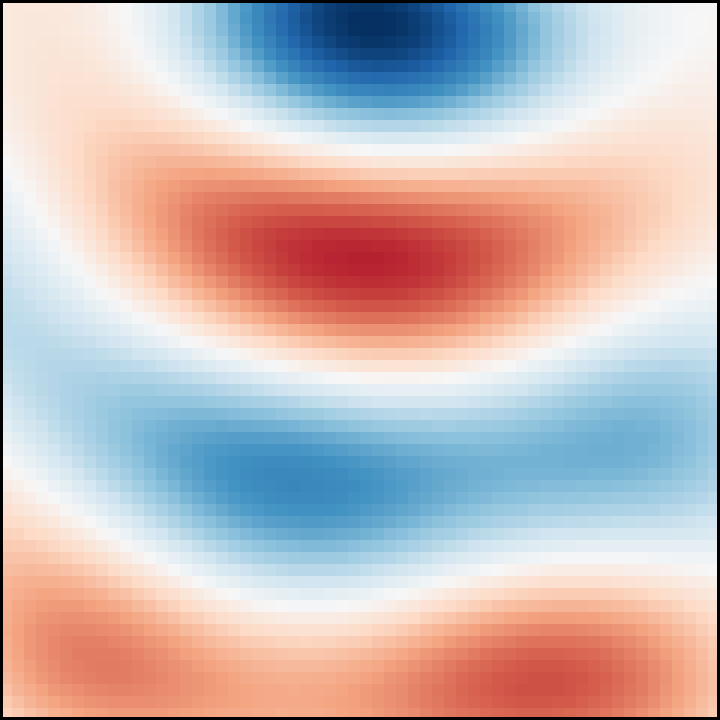
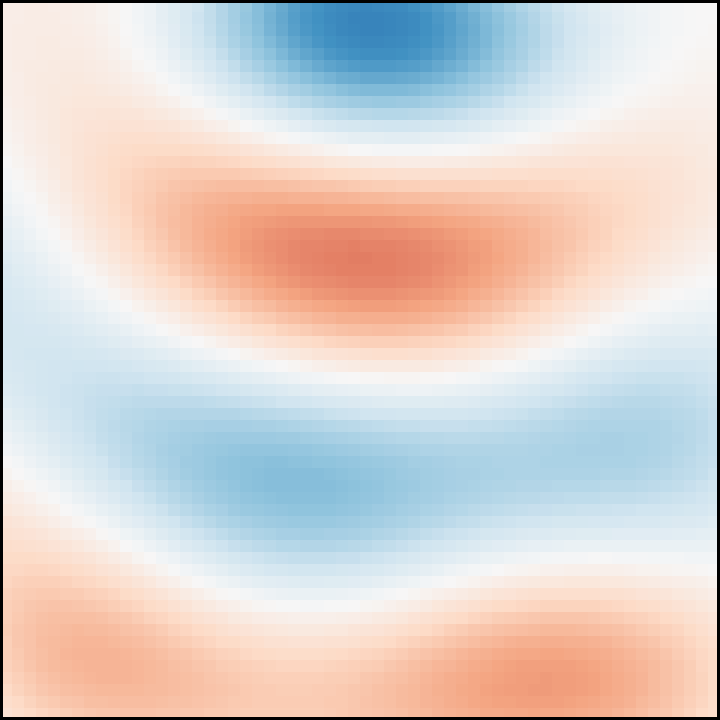
Show DFT capture while the original field keeps propagating
Reconstruct native steady-state phases from complex fields and freeze only the midpoint snapshot for storage.

Constraint: Preserve the RdBu layout and reuse the validated resolution-60 simulation.
Rejected: Translating a real-field screenshot | loses the complex phase relation through the device.
Confidence: high
Scope-risk: narrow
Directive: Keep capture at phase0 and identify playback as steady-state DFT rather than transient arrival.
Tested: Quarter-cycle and loop identities; frame0/capture pixel equality; 18 Chrome scenarios; source-region motion across capture; pause and reverse seeking.
Not-tested: Full Jekyll build and production Pages deployment.

diff --git a/index.html b/index.html
@@ -64,7 +64,7 @@ title: Meep Examples · 빛이 다니는 길을 설계하다
       <div class="section-heading story-heading"><div><p class="eyebrow">SCROLL TO UNDERSTAND</p><h2 id="story-title">빛의 길은 어떻게 설계할까요?</h2></div><a class="text-link" href="./bend-inverse/">09편에서 코드로 확인하기 <span aria-hidden="true">↗</span></a></div>
       <div class="story-layout">
         <div class="story-chapters">
-          <article class="story-step" id="forward" data-step="1"><span class="step-number">01 / FORWARD · CAPTURE</span><h3>빛을 보내고,<br>장을 찍습니다.</h3><p>왼쪽 변 중앙의 입력에서 빛을 보냅니다. 설계 영역의 DFT 장을 누적한 뒤, 한 장의 이미지처럼 저장합니다.</p><p class="step-detail">사진기는 저장을 설명하는 비유입니다. DFT는 한순간의 파동이 아니라 시간에 걸쳐 누적한 복소 주파수장입니다.</p><a href="#adjoint" class="step-next">다음은 목표에서 출발합니다 <span aria-hidden="true">↓</span></a></article>
+          <article class="story-step" id="forward" data-step="1"><span class="step-number">01 / FORWARD · CAPTURE</span><h3>전파되는 중간에,<br>장을 찍습니다.</h3><p>Forward DFT 장을 위상 재생하는 중간에 설계 영역을 촬영합니다. 원래 장은 계속 전파되고, 찍힌 한 장만 정지 이미지로 저장됩니다.</p><p class="step-detail">전파는 복소 DFT에서 재구성한 정상상태 위상 순환입니다. DFT는 시간에 걸쳐 누적한 복소 주파수장이며, 사진기는 그 결과를 저장하는 비유입니다.</p><a href="#adjoint" class="step-next">다음은 목표에서 출발합니다 <span aria-hidden="true">↓</span></a></article>
           <article class="story-step" id="adjoint" data-step="2"><span class="step-number adjoint-ink">02 / ADJOINT · CAPTURE</span><h3>목표에서 보내고,<br>다시 찍습니다.</h3><p>같은 구조에서 위쪽 출력의 adjoint source를 켭니다. 설계 영역을 다시 촬영해 두 번째 DFT 장을 저장합니다.</p><p class="step-detail">목적함수가 정하는 별도의 계산입니다. 원래의 입력 광원은 OFF. 두 이미지는 같은 설계 영역의 같은 주파수를 봅니다.</p><a href="#gradient" class="step-next">저장한 두 장을 모읍니다 <span aria-hidden="true">↓</span></a></article>
           <article class="story-step" id="gradient" data-step="3"><span class="step-number">03 / FIELD OVERLAP → GRADIENT</span><h3>두 장이 만나,<br>민감도가 됩니다.</h3><p>저장한 forward·adjoint 복소장을 픽셀마다 겹쳐 후처리합니다. 어느 픽셀의 밀도를 바꾸면 출력이 좋아질지 gradient로 읽습니다.</p><p class="step-detail">화면의 실수부 이미지를 단순히 더하거나 곱하는 계산은 아닙니다. 복소장·정규화·설계 변수의 미분을 반영한 실제 초기 gradient입니다.</p><a href="#update" class="step-next">민감도를 설계로 돌려보냅니다 <span aria-hidden="true">↓</span></a></article>
           <article class="story-step" id="update" data-step="4"><span class="step-number">04 / OPTIMIZER → GEOMETRY</span><h3>바꿀 곳을 알고,<br>구조를 갱신합니다.</h3><p>Gradient를 받은 최적화기가 설계 영역의 밀도를 바꿉니다. 연결된 두 waveguide port는 고정된 채, 사각형 안만 갱신됩니다.</p><p class="step-detail">해상도 60, 설계 변수 61×61로 다시 계산했습니다. 유한차분 검증을 통과한 gradient로 밀도를 한 번 갱신하고, 출력이 증가한 결과를 표시합니다. 아직 회색 밀도인 초기 단계입니다.</p><a href="./assets/meep/09/highres/result.json" class="text-link">새 계산과 검증 결과 <span aria-hidden="true">→</span></a></article>
@@ -77,7 +77,11 @@ title: Meep Examples · 빛이 다니는 길을 설계하다
             <rect width="720" height="294" fill="url(#layout-grid)"/>
             <rect x="430" y="100" width="150" height="150" class="uniform-density"/>
             <g id="density-grid" shape-rendering="crispEdges"></g>
-            <g clip-path="url(#apparatus-clip)" class="apparatus-fields"><image id="forward-field" href="./assets/meep/09/highres/forward-scene.png" x="55" y="-200" width="900" height="750"/><image id="adjoint-field" href="./assets/meep/09/highres/adjoint-scene.png" x="55" y="-200" width="900" height="750"/><image id="updated-field" href="./assets/meep/09/highres/updated-forward-scene.png" x="55" y="-200" width="900" height="750"/></g>
+            <g clip-path="url(#apparatus-clip)" class="apparatus-fields">
+              <g id="forward-field"><image class="field-base" href="./assets/meep/09/highres/forward-scene.png" x="55" y="-200" width="900" height="750"/><svg id="forward-phase" class="phase-viewport" x="55" y="-200" width="900" height="750" viewBox="0 0 360 300"><image id="forward-phase-sheet" href="./assets/meep/09/highres/forward-phases.png" width="2880" height="1200"/></svg></g>
+              <g id="adjoint-field"><image class="field-base" href="./assets/meep/09/highres/adjoint-scene.png" x="55" y="-200" width="900" height="750"/><svg id="adjoint-phase" class="phase-viewport" x="55" y="-200" width="900" height="750" viewBox="0 0 360 300"><image id="adjoint-phase-sheet" href="./assets/meep/09/highres/adjoint-phases.png" width="2880" height="1200"/></svg></g>
+              <image id="updated-field" href="./assets/meep/09/highres/updated-forward-scene.png" x="55" y="-200" width="900" height="750"/>
+            </g>
             <g id="fixed-ports"><path id="input-guide" d="M55 137.5H430V212.5H55Z"/><path id="output-guide" d="M467.5 25H542.5V100H467.5Z"/></g>
             <rect x="430" y="100" width="150" height="150" class="region-outline"/>
             <path id="input-beacon" d="M280 137.5V212.5" class="field-monitor"/>
@@ -87,7 +91,7 @@ title: Meep Examples · 빛이 다니는 길을 설계하다
             <path id="capture-scan" d="M430 100H580"/>
             <rect id="capture-flash" x="430" y="100" width="150" height="150" fill="white" opacity="0"/>
             <g id="capture-camera" transform="translate(630 155)"><path d="M-18-12H-7L-3-18H9L13-12H22V14H-18Z"/><circle cx="2" cy="0" r="8"/><path class="camera-ray" d="M-24 0H-37"/></g>
-            <text x="632" y="202" text-anchor="middle" class="experiment-label" id="capture-caption">DFT 누적</text>
+            <text x="632" y="202" text-anchor="middle" class="experiment-label" id="capture-caption">촬영 대기</text>
             <path id="gradient-return" d="M620 330C684 286 644 225 591 194" marker-end="url(#flow-arrow)"/>
             <text id="optimizer-caption" x="622" y="282" text-anchor="middle" class="experiment-label">ASCENT</text>
             <g class="snapshot-slots"><rect x="42" y="324" width="124" height="124" rx="4"/><rect x="254" y="324" width="124" height="124" rx="4"/><rect x="502" y="324" width="124" height="124" rx="4"/></g>
@@ -101,8 +105,8 @@ title: Meep Examples · 빛이 다니는 길을 설계하다
             <g id="gradient-transfer"><use href="#initial-gradient-map" width="112" height="112"/></g>
           </svg>
           <div class="snapshot-captions"><div><strong>Forward DFT</strong><span id="forward-status">촬영 대기</span></div><div><strong>Adjoint DFT</strong><span id="adjoint-status">촬영 대기</span></div><div><strong>Gradient</strong><span id="gradient-status">두 장 기다리는 중</span></div></div>
-          <div class="field-key"><span>Re Ẽz · 도파관·촬영본은 같은 ±max</span><span class="gradient-key" role="img" aria-label="RdBu: 빨강 음수, 파랑 양수">− <i aria-hidden="true"></i> +</span></div>
-          <div class="scene-explanation" id="scene-caption"><strong id="scene-summary">설계 영역의 forward DFT 장을 누적합니다.</strong><span id="scene-note">입력·설계 영역·출력 모두 RES 60 실제 DFT</span></div>
+          <div class="field-key"><span id="phase-label">DFT 저장 위상 · 정상상태</span><span class="gradient-key" role="img" aria-label="RdBu: 빨강 음수, 파랑 양수">− <i aria-hidden="true"></i> +</span></div>
+          <div class="scene-explanation" id="scene-caption"><strong id="scene-summary">Forward 장이 전파되는 중간에 촬영합니다.</strong><span id="scene-note">복소 DFT의 정상상태 위상 재생 · 촬영본은 위상 0°에 고정</span></div>
           <div class="sequence-transport" hidden><div class="transport-buttons"><button type="button" id="sequence-play">전체 흐름 재생</button><button type="button" id="sequence-replay" aria-label="처음부터 다시 보기"><svg width="18" height="18" viewBox="0 0 24 24" aria-hidden="true"><path d="M4 10a8 8 0 1 1 1 8M4 4v6h6"/></svg></button><label class="speed-control"><span class="visually-hidden">재생 속도</span><select id="sequence-speed"><option value="0.75">0.75×</option><option value="1" selected>1×</option><option value="1.5">1.5×</option></select></label><output id="sequence-time" for="sequence-progress">00:00 / 00:24</output></div><label class="timeline-control"><span class="visually-hidden">애니메이션 재생 위치</span><input id="sequence-progress" type="range" min="0" max="24" step="0.01" value="0" aria-valuetext="Forward DFT · 0초"></label></div>
           <nav class="stage-nav" aria-label="계산 단계"><a href="#forward" data-stage-link="1" aria-current="step"><span>01</span> Forward</a><a href="#adjoint" data-stage-link="2"><span>02</span> Adjoint</a><a href="#gradient" data-stage-link="3"><span>03</span> Gradient</a><a href="#update" data-stage-link="4"><span>04</span> Update</a></nav>
           <p class="data-credit"><a href="./assets/meep/09/highres/forward-full.png">Forward 원본</a> · <a href="./assets/meep/09/highres/adjoint-full.png">Adjoint 원본</a> · <a href="./assets/meep/09/highres/gradient-design.png">Gradient</a> · <a href="./assets/meep/09/highres/result.json">계산·검증 데이터</a><span id="density-data-status"></span></p>

diff --git a/assets/inverse-story.js b/assets/inverse-story.js
@@ -10,10 +10,15 @@
   const playButton = $("#sequence-play");
   const toggle = $("#motion-toggle");
   const duration = 24;
+  const captureAt = 3;
+  const phaseCycleSeconds = 1.5;
+  const phaseFrames = 32;
+  const sheetColumns = 8;
+  const phaseReady = { forward: false, adjoint: false };
   const names = ["FORWARD DFT", "ADJOINT DFT", "FIELD OVERLAP", "GEOMETRY UPDATE"];
   const descriptions = [
-    "입력 광원을 켜고 같은 설계 영역의 forward DFT 장을 누적·저장합니다.",
-    "입력 광원은 끄고, 목적함수가 정한 출력의 adjoint source로 같은 설계 영역의 DFT 장을 저장합니다.",
+    "Forward DFT의 정상상태 위상 전파 중간에 설계 영역을 촬영합니다. 저장된 이미지는 멈추고, 원래 장의 위상 전파는 계속됩니다.",
+    "입력 광원은 끄고 출력의 adjoint source로 계산한 DFT를 위상 재생합니다. 같은 설계 영역을 촬영한 뒤에도 전파는 이어집니다.",
     "저장한 두 복소장을 후처리해 설계 변수에 대한 초기 gradient를 구합니다. 표시한 실수부 이미지의 단순한 곱이 아닙니다.",
     "유한차분 검증을 통과한 gradient로 설계 영역을 한 번 갱신합니다. 실제 계산에서 출력이 증가한 61×61 밀도이며 포트는 고정됩니다."
   ];
@@ -41,9 +46,34 @@
     $(selector).setAttribute("transform", `translate(${x} ${y}) scale(${scale}) rotate(${rotation} 56 56)`);
   }
   function captured(selector, start, targetX, t) {
-    const flight = smooth(ramp(t, start, 1.8));
+    const flight = smooth(ramp(t, start + .28, 1.8));
     move(selector, 430 + (targetX - 430) * flight, 100 + 230 * flight - Math.sin(Math.PI * flight) * 40, 150 / 112 + (1 - 150 / 112) * flight, Math.sin(Math.PI * flight) * -6);
-    opacity(selector, ramp(t, start, .2));
+    opacity(selector, ramp(t, start, .08));
+  }
+  function phaseField(kind, local, active) {
+    const playingPhase = active && phaseReady[kind] && !staticMode();
+    const cycle = (((local - captureAt) / phaseCycleSeconds) % 1 + 1) % 1;
+    const frame = playingPhase ? Math.floor(cycle * phaseFrames + 1e-7) % phaseFrames : 0;
+    const sheet = $(`#${kind}-phase-sheet`);
+    sheet.setAttribute("x", String(-(frame % sheetColumns) * 360));
+    sheet.setAttribute("y", String(-Math.floor(frame / sheetColumns) * 300));
+    $(`#${kind}-phase`).dataset.frame = String(frame);
+    opacity(`#${kind}-phase`, playingPhase ? 1 : 0);
+    return frame;
+  }
+  async function loadPhaseSheet(kind) {
+    try {
+      const image = new Image();
+      image.src = $(`#${kind}-phase-sheet`).getAttribute("href");
+      await image.decode();
+      if (image.naturalWidth !== 2880 || image.naturalHeight !== 1200) throw new Error("Invalid DFT phase sheet");
+      phaseReady[kind] = true;
+      scene.dataset[`${kind}PhaseReady`] = "true";
+      render(time);
+    } catch (error) {
+      scene.dataset[`${kind}PhaseError`] = "true";
+      console.warn("Meep phase animation:", error.message);
+    }
   }
   function render(value) {
     time = Math.max(0, Math.min(duration, value));
@@ -63,8 +93,13 @@
     const updating = stage === 4;
     const local = time - (stage - 1) * 6;
     const staticFrame = staticMode();
-    const captureStart = forward ? 3 : 9;
-    const accumulating = (forward || adjoint) && local < 3;
+    const captureStart = forward ? captureAt : 6 + captureAt;
+    const beforeCapture = (forward || adjoint) && local < captureAt;
+    const forwardFrame = phaseField("forward", local, forward);
+    const adjointFrame = phaseField("adjoint", local, adjoint);
+    const phaseKind = adjoint ? "adjoint" : "forward";
+    const phaseAnimated = (forward || adjoint) && phaseReady[phaseKind] && !staticFrame;
+    text("#phase-label", phaseAnimated ? `DFT 위상 ${Math.round((adjoint ? adjointFrame : forwardFrame) * 360 / phaseFrames)}° · 정상상태` : "DFT 저장 위상 · 정상상태");
     const updated = densityReady ? smooth(ramp(time, 21, 2.2)) : 0;
     opacity("#forward-field", forward ? ramp(time, .3, 2) : stage === 3 ? 1 : updating ? 1 - ramp(time, 18, .6) : 0);
     opacity("#adjoint-field", adjoint ? ramp(time, 6.3, 2) : 0);
@@ -81,14 +116,14 @@
     $("#capture-scan").style.stroke = captureColor;
     opacity("#capture-camera", forward || adjoint ? 1 : .25);
     opacity("#capture-frame", forward || adjoint ? 1 : .35);
-    opacity("#capture-scan", accumulating && !staticFrame ? .7 : 0);
-    $("#capture-scan").setAttribute("transform", `translate(0 ${150 * ramp(local, 0, 3)})`);
+    opacity("#capture-scan", beforeCapture && !staticFrame ? .7 : 0);
+    $("#capture-scan").setAttribute("transform", `translate(0 ${150 * ramp(local, 0, captureAt)})`);
     const flash = !staticFrame && (forward || adjoint) ? .28 * Math.max(0, 1 - Math.abs(time - captureStart) / .2) : 0;
     opacity("#capture-flash", flash);
-    text("#capture-caption", forward || adjoint ? accumulating ? "DFT 누적" : "저장 완료" : "CAPTURED");
+    text("#capture-caption", forward || adjoint ? beforeCapture ? "촬영 대기" : local < 3.28 ? "찰칵 · DFT" : "저장 완료" : "CAPTURED");
     text("#geometry-caption", updating ? evaluatedField >= .99 ? "갱신 후 DFT · RES 60" : updated >= .99 ? "gradient ascent · 1회" : "gradient → 밀도 갱신" : "ρ = 0.5 · 같은 구조");
-    captured("#forward-snapshot", 3, 48, time);
-    captured("#adjoint-snapshot", 9, 260, time);
+    captured("#forward-snapshot", captureAt, 48, time);
+    captured("#adjoint-snapshot", 6 + captureAt, 260, time);
     const overlap = smooth(ramp(time, 12.5, 2.2));
     const overlapOpacity = ramp(time, 12.5, .4) * (1 - ramp(time, 15.2, .8));
     move("#forward-overlap", 48 + 460 * overlap, 330 - 36 * Math.sin(Math.PI * overlap), 1, -8 * Math.sin(Math.PI * overlap));
@@ -101,15 +136,15 @@
     opacity("#gradient-transfer", ramp(time, 18.8, .3) * (1 - ramp(time, 21, .6)) * .85);
     opacity("#gradient-return", updating ? .75 : 0);
     opacity("#optimizer-caption", updating ? 1 : 0);
-    text("#forward-status", time < .3 ? "촬영 대기" : time < 3 ? "DFT 누적 중" : time < 4.8 ? "이미지 저장 중" : "저장 완료");
-    text("#adjoint-status", time < 6.3 ? "촬영 대기" : time < 9 ? "DFT 누적 중" : time < 10.8 ? "이미지 저장 중" : "저장 완료");
+    text("#forward-status", time < .3 ? "촬영 대기" : time < 3 ? "위상 전파 중" : time < 5.08 ? "DFT 저장 중" : "저장 완료");
+    text("#adjoint-status", time < 6.3 ? "촬영 대기" : time < 9 ? "위상 전파 중" : time < 11.08 ? "DFT 저장 중" : "저장 완료");
     text("#gradient-status", time < 12.5 ? "두 장 기다리는 중" : time < 16.2 ? "복소장 겹침·후처리" : "초기 ∂J/∂ρ · 61×61");
-    const summary = forward ? accumulating ? "설계 영역의 forward DFT 장을 누적합니다." : "첫 번째 장을 찍어 저장합니다."
-      : adjoint ? accumulating ? "같은 구조의 adjoint DFT 장을 누적합니다." : "두 번째 장을 찍어 저장합니다."
+    const summary = forward ? beforeCapture ? "Forward 장이 전파되는 중간에 촬영합니다." : "DFT 한 장을 저장해도 전파는 계속됩니다."
+      : adjoint ? beforeCapture ? "Adjoint 장이 전파되는 중간에 다시 촬영합니다." : "두 번째 DFT를 저장하며 전파를 이어갑니다."
       : stage === 3 ? time < 16.2 ? "저장한 두 복소장을 겹쳐 민감도를 구합니다." : "픽셀마다 바꿀 방향이 gradient로 남습니다."
       : densityReady ? time < 23.2 ? "Gradient를 받아 설계 영역의 밀도를 바꿉니다." : "갱신한 구조의 forward DFT를 다시 확인합니다." : "최종 밀도를 불러오지 못했습니다. 계산 결과 링크를 확인하세요.";
     text("#scene-summary", summary);
-    text("#scene-note", updating ? "균일 0.5 → 검증한 1회 갱신 · 최대 밀도 변화 0.15" : "입력·설계 영역·출력 모두 RES 60 실제 DFT");
+    text("#scene-note", updating ? "균일 0.5 → 검증한 1회 갱신 · 최대 밀도 변화 0.15" : "복소 DFT의 정상상태 위상 재생 · 촬영본은 위상 0°에 고정");
     progress.min = staticFrame ? "1" : "0";
     progress.max = staticFrame ? "4" : String(duration);
     progress.step = staticFrame ? "1" : ".01";
@@ -256,4 +291,6 @@
   window.addEventListener("hashchange", () => { if (hashStage()) selectStage(hashStage()); });
   selectStage(hashStage() || 1);
   loadDensity();
+  loadPhaseSheet("forward");
+  loadPhaseSheet("adjoint");
 })();

diff --git a/assets/inverse-story.css b/assets/inverse-story.css
@@ -12,6 +12,7 @@
 .uniform-density { fill: #808080; }
 .region-outline { fill: none; stroke: var(--layout-black); stroke-width: 1.5; stroke-dasharray: 5 5; }
 .apparatus-fields image { image-rendering: pixelated; }
+.phase-viewport { overflow: hidden; opacity: 0; }
 .experiment-label { fill: var(--muted); font: 13px/1.5 ui-monospace, monospace; }
 #capture-frame { stroke: var(--brand); stroke-width: 2; fill: none; }
 #capture-scan { stroke: var(--cyan); stroke-width: 2; }

diff --git a/code/highres_bend/render_scene.py b/code/highres_bend/render_scene.py
@@ -10,6 +10,41 @@ from PIL import Image, ImageDraw
 
 FULL_EXTENT = [-3.0, 3.0, -2.5, 2.5]
 DESIGN_EXTENT = [-0.5, 0.5, -0.5, 0.5]
+PHASE_FRAME_COUNT = 32
+PHASE_COLUMNS = 8
+PHASE_ROWS = 4
+
+
+def field_rgba(values, limit):
+    return matplotlib.colormaps["RdBu"]((values.T[::-1] / limit + 1) / 2, bytes=True)
+
+
+def save_phase_sprite(field, limit, path):
+    phases = np.arange(PHASE_FRAME_COUNT) * 2 * np.pi / PHASE_FRAME_COUNT
+    fields = np.real(field[None, :, :] * np.exp(-1j * phases[:, None, None]))
+    quarter_errors = {}
+    for frame, expected in ((0, field.real), (8, field.imag), (16, -field.real), (24, -field.imag)):
+        error = float(np.max(np.abs(fields[frame] - expected)))
+        assert error < 1e-12 * limit
+        quarter_errors[str(frame)] = error
+    loop_error = float(np.max(np.abs(np.real(field * np.exp(-2j * np.pi)) - fields[0])))
+    assert loop_error < 1e-12 * limit
+    atlas = Image.new("RGBA", (360 * PHASE_COLUMNS, 300 * PHASE_ROWS))
+    for frame, values in enumerate(fields):
+        atlas.paste(Image.fromarray(field_rgba(values, limit)), ((frame % PHASE_COLUMNS) * 360, (frame // PHASE_COLUMNS) * 300))
+    atlas.save(path)
+    saved = Image.open(path)
+    for frame, values in enumerate(fields):
+        left, top = (frame % PHASE_COLUMNS) * 360, (frame // PHASE_COLUMNS) * 300
+        assert np.array_equal(np.asarray(saved.crop((left, top, left + 360, top + 300))), field_rgba(values, limit))
+    assert not np.array_equal(field_rgba(fields[0], limit), field_rgba(fields[1], limit))
+    assert not np.array_equal(field_rgba(fields[0], limit), field_rgba(fields[-1], limit))
+    return {
+        "sprite": path.name, "sprite_pixels": list(saved.size),
+        "quarter_cycle_max_absolute_errors": quarter_errors,
+        "loop_closure_max_absolute_error": loop_error,
+        "saved_all_frames_match": True, "animated_content": True,
+    }
 
 
 def main():
@@ -21,10 +56,12 @@ def main():
     result_path = args.out / "result.json"
     result = json.loads(result_path.read_text())
     raw = np.load(args.fields)
+    source_hash = hashlib.sha256(args.fields.read_bytes()).hexdigest()
+    assert result["scene_rendering"]["source_sha256"] == source_hash
     rendering = {
         "source": "saved complex128 full-cell Ez DFT, fields.npz",
-        "source_sha256": hashlib.sha256(args.fields.read_bytes()).hexdigest(),
-        "quantity": "Re(Ez); original complex phase, no phase rotation",
+        "source_sha256": source_hash,
+        "quantity": "Re(Ez * exp(-i phase)); saved complex DFT phasor",
         "colormap": "RdBu",
         "sign": "negative red; zero white; positive blue",
         "full_extent_um": FULL_EXTENT,
@@ -33,27 +70,37 @@ def main():
         "capture_pixels": [720, 720],
         "native_design_pixels": [60, 60],
         "native_spacing_um": 1 / 60,
-        "orientation": "RGBA[row,col] = RdBu(normalize(real(Ez[col,Ny-1-row]))); top is +y",
+        "orientation": "RGBA[row,col] = RdBu(normalize(real(Ez[col,Ny-1-row] * exp(-i phase)))); top is +y",
         "capture_rendering": "exact full-scene design crop, nearest enlargement, black boundary and centered port markers",
+        "phase_frame_count": PHASE_FRAME_COUNT,
+        "phase_columns": PHASE_COLUMNS,
+        "phase_rows": PHASE_ROWS,
+        "phase_convention": "phase_k = 2*pi*k/32; Re(F*exp(-i*phase_k)); phase0 is the original real phasor",
+        "normalization": "fixed symmetric +/-max(abs(complex full Ez)) per calculation, shared by every phase, scene, capture",
+        "notTransient": True,
+        "provenance": "DFT phase cycle / steady state; no wavefront arrival, source turn-on, or propagation delay",
         "scenes": {},
     }
     for prefix, stem in (("forward", "forward"), ("adjoint", "adjoint"), ("updated_forward", "updated-forward")):
-        values = np.real(raw[f"{prefix}_full_Ez"])
+        field = raw[f"{prefix}_full_Ez"]
+        values = np.real(field)
         x, y = raw[f"{prefix}_full_x"], raw[f"{prefix}_full_y"]
         assert values.shape == (360, 300)
         assert np.allclose(np.diff(x), 1 / 60) and np.allclose(np.diff(y), 1 / 60)
-        limit = float(np.max(np.abs(values)))
-        rgba = matplotlib.colormaps["RdBu"]((values.T[::-1] / limit + 1) / 2, bytes=True)
+        limit = float(np.max(np.abs(field)))
+        rgba = field_rgba(values, limit)
         scene_name = f"{stem}-scene.png"
         Image.fromarray(rgba).save(args.out / scene_name)
         entry = {"scene": scene_name, "symmetric_limit": limit, "vmin": -limit, "vmax": limit}
         if prefix != "updated_forward":
+            entry.update(save_phase_sprite(field, limit, args.out / f"{stem}-phases.png"))
+            assert np.array_equal(np.asarray(Image.open(args.out / entry["sprite"]).crop((0, 0, 360, 300))), rgba)
             ix = np.flatnonzero((x >= -.5) & (x <= .5))
             iy = np.flatnonzero((y >= -.5) & (y <= .5))
             assert len(ix) == len(iy) == 60
             left, top = int(ix[0]), int(len(y) - 1 - iy[-1])
             crop = rgba[top:top + 60, left:left + 60]
-            expected = matplotlib.colormaps["RdBu"]((values[np.ix_(ix, iy)].T[::-1] / limit + 1) / 2, bytes=True)
+            expected = field_rgba(values[np.ix_(ix, iy)], limit)
             assert np.array_equal(crop, expected)
             capture = Image.fromarray(crop).resize((720, 720), Image.Resampling.NEAREST)
             outline = ImageDraw.Draw(capture)
@@ -63,9 +110,22 @@ def main():
             capture_name = f"{stem}-capture.png"
             capture.save(args.out / capture_name)
             assert np.array_equal(np.asarray(capture)[5:-5, 5:-5], np.asarray(Image.fromarray(crop).resize((720, 720), Image.Resampling.NEAREST))[5:-5, 5:-5])
-            entry.update({"capture": capture_name, "capture_limit": limit, "scene_crop_box_pixels": [left, top, left + 60, top + 60], "capture_matches_scene_interior": True})
+            entry.update({"capture": capture_name, "capture_limit": limit, "scene_crop_box_pixels": [left, top, left + 60, top + 60], "capture_matches_scene_interior": True, "frame0_capture_match": True, "frame0_scene_match": True})
         assert np.array_equal(np.asarray(Image.open(args.out / scene_name)), rgba)
         rendering["scenes"][stem] = entry
+    x, y = raw["forward_full_x"], raw["forward_full_y"]
+    y_index = int(np.argmin(np.abs(y)))
+    input_mask = (x >= -1.35) & (x <= -.65)
+    input_phase = np.unwrap(np.angle(raw["forward_full_Ez"][input_mask, y_index]))
+    slope = float(np.polyfit(x[input_mask], input_phase, 1)[0])
+    assert slope > 0
+    rendering["input_phase_direction_check"] = {
+        "sample_x_range_um": [float(x[input_mask][0]), float(x[input_mask][-1])],
+        "sample_y_um": float(y[y_index]), "phase_slope_rad_per_um": slope,
+        "convention": "positive spatial phase slope with exp(-i phase) advances constant phase toward +x",
+        "direction": "source to design (+x)", "passed": True,
+        "interpretation": "total steady-state field may also contain reflected waves; this is not transient arrival",
+    }
     result["scene_rendering"] = rendering
     result_path.write_text(json.dumps(result, indent=2))
     print(json.dumps(rendering, indent=2))

diff --git a/DESIGN.md b/DESIGN.md
@@ -53,6 +53,9 @@ Assets and metadata: assets/meep/09/highres/. Reproduction code: code/highres_be
 
 Native transport includes play/pause, replay, speed, labeled seeking and four stage links. Scrubbing is reversible and triggers no queued capture callbacks. Reduced motion and missing GSAP use four static endpoints; their range control has four integer positions so backward keyboard input works. Hidden/offscreen scenes preserve time and resume only if the user requested playback. Pause intent survives scrolling. Narrow controls wrap; short viewports use a nonsticky figure. No autoplay loop.
 
+### DFT propagation during capture
+Forward and adjoint display32 native phase samples of Re(Ez exp(-iφ)), with one fixed symmetric ±max|Ez| range per computation. This is steady-state DFT phase playback. The existing apparatus and saved-map layout stay intact. Each six-second field stage plays four1.5-second phase cycles. At its midpoint (global3/9s), phase0 is photographed: the copy holds for0.28s, then flies to its saved tile while the original phase motion continues through both waveguides and the design region. The saved copy stays at phase0 for gradient presentation. Frames use a deterministic8×4 sprite, driven by the same GSAP playhead as the shutter, so pause, speed, reverse seeking and offscreen suspension also control the field. Reduced motion, unavailable GSAP or failed sprite decoding retain the phase0 field and manual stages. The phase label states normal steady state; no wavefront arrival or turn-on delay is inferred from DFT data.
+
 ## 7. Guided lessons: parts 01 and 09
 Preserve this site's paper, ink and cyan identity. A lesson answers one question through observation, prediction, explanation, execution, interpretation and a final check. Keep the original English summary, detailed numerical evidence, complete code and scientific limits accessible through native disclosures. Never move a necessary validity caveat exclusively into a collapsed panel. Existing routes and simulation scripts are immutable for this presentation change.
 

diff --git a/assets/meep/09/highres/README.md b/assets/meep/09/highres/README.md
@@ -17,3 +17,5 @@ The reproducible extraction and packaging scripts are in code/highres_bend/. Run
 ## Whole-scene DFT rendering
 
 The homepage uses `forward-scene.png`, `adjoint-scene.png` and `updated-forward-scene.png`: native360×300 real-Ez RdBu rasters from the saved full-cell complex fields, with no opaque geometry mask. SVG overlays supply black contours. `forward-capture.png` and `adjoint-capture.png` crop the exact1×1µm region (60×60 full-cell samples) using the same phase and full-field symmetric limit; nearest enlargement produces720×720px exports. Capture interiors match scene pixels exactly. The original62×62 design-monitor plots remain available separately. Reproduce these additional exports with `code/highres_bend/render_scene.py fields.npz --out <asset-directory>`. Exact scales, extents, orientation and input hash are in `result.json:scene_rendering`.
+
+`forward-phases.png` and `adjoint-phases.png` each store32 native360×300 frames in an8×4 sheet. Frames reconstruct `Re(Ez * exp(-iφ))` with a fixed symmetric `±max(abs(complex Ez))` scale per computation. Frame0 matches the corresponding scene and saved crop exactly. Quarter-cycle identities, loop closure, all saved-frame colors and the input's source-to-design phase direction are verified in `scene_rendering`. This is steady-state DFT phase playback. The website photographs phase0 at the midpoint of each field stage and keeps the original phase motion running while the frozen copy is stored.

diff --git a/code/highres_bend/README.md b/code/highres_bend/README.md
@@ -25,3 +25,5 @@ The PNGs use `RdBu` with symmetric limits centered at zero: red is negative and 
 ## Unified scene and capture colors
 
 After the simulation, run `python render_scene.py /path/to/fields.npz --out /path/to/assets/meep/09/highres`. This renders native full-cell RdBu fields and matching design crops from the saved complex results; it does not rerun Meep. The helper asserts crop orientation, shared normalization and exact interior pixel agreement. The original simulation source and its SHA256 remain unchanged.
+
+The same command exports32-phase sprites for forward and adjoint playback. It checks quarter-cycle identities, loop closure, all stored RGBA frames, phase0/capture equality and source-to-design input phase progression. Every phase uses the same complex-amplitude color limit; metadata identifies the result as a normal steady-state DFT phase cycle.
